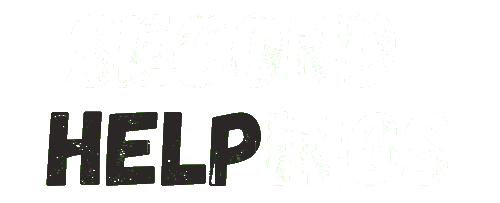
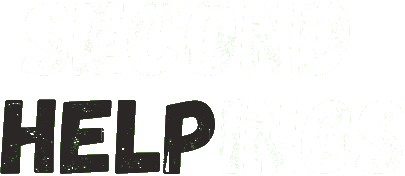
Hero image on home page. All now responsive

diff --git a/client/src/pages/homepage.component.js b/client/src/pages/homepage.component.js
@@ -3,9 +3,19 @@ import React, { Component } from 'react';
 export default class Homepage extends Component {
   render() {
     return (
-      <div>
-        <p>This is the homepage component</p>
-      </div>
+      <>
+        <section id="intro-section">
+          <img
+            id="hero-img"
+            className="mx-auto d-block"
+            src="1.png"
+            alt="Graphic of food and people with caption: Second Helpings, Help Others, Reduce Waste"
+          />
+        </section>
+        <div>
+          <p>This is the homepage component</p>
+        </div>
+      </>
     );
   }
 }

diff --git a/client/src/index.css b/client/src/index.css
@@ -1,5 +1,6 @@
 body {
   margin: 0;
+
   font-family: -apple-system, BlinkMacSystemFont, 'Segoe UI', 'Roboto', 'Oxygen',
     'Ubuntu', 'Cantarell', 'Fira Sans', 'Droid Sans', 'Helvetica Neue',
     sans-serif;
@@ -13,9 +14,8 @@ code {
 }
 
 .navbar {
-  position: absolute;
-
   background-color: #008037;
+  margin: 0;
 }
 
 #home-logo {
@@ -23,5 +23,11 @@ code {
   padding: 0;
 }
 
-@media screen {
+#intro-section {
+  background-color: #7ed957;
+}
+
+#hero-img {
+  height: 70vh;
+  max-height: 100%;
 }

diff --git a/client/src/components/navbar.component.js b/client/src/components/navbar.component.js
@@ -10,7 +10,7 @@ export default class Navbar extends Component {
           {({ user, logoutUser }) => {
             return (
               <>
-                <nav className="navbar navbar-dark navbar-expand-sm justify-content-right pt-2 ps-2 pb-2">
+                <nav className="navbar navbar-dark navbar-expand-sm justify-content-right ps-4 sticky-lg-top">
                   <Link id="homepage-link" to="/" className="navbar-brand">
                     <img
                       id="home-logo"

diff --git a/client/src/App.js b/client/src/App.js
@@ -42,7 +42,6 @@ export default class App extends Component {
       <userContext.Provider value={value}>
         <Router>
           <Navbar />
-          <br />
           <Route path="/" exact component={Homepage} />
           <Route path="/signup" component={Signup} />
           <Route exact path="/login">
